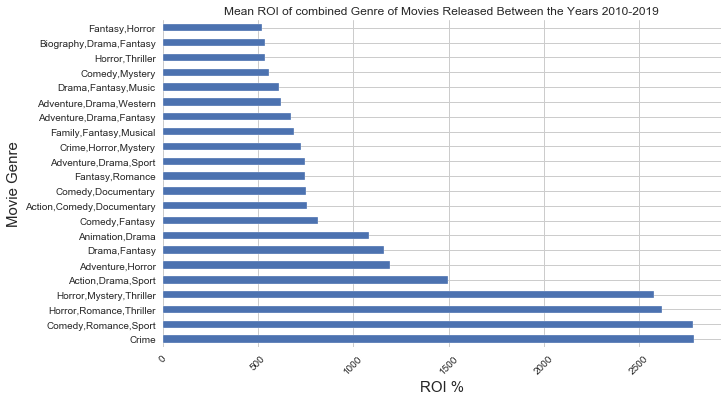
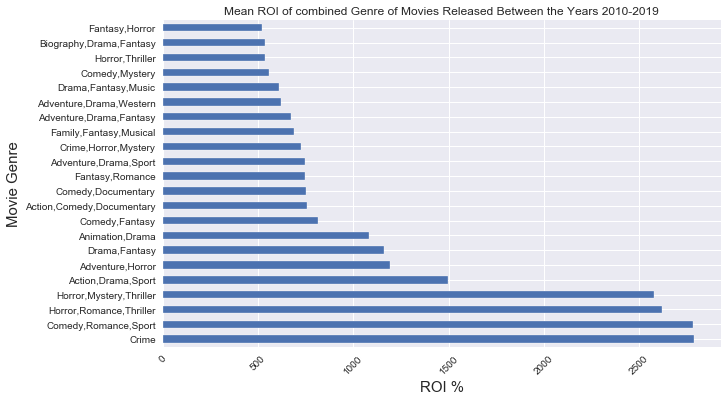
added image to README

diff --git a/README.md b/README.md
@@ -16,6 +16,8 @@ Our results indicate that Microsoft should produce predominantly high budget fil
 
 Microsoft would like to start it’s own movie studio. However, they do not know anything about the movie industry. Here, we explore relevant data concerning the movie industry. In particular, our focus was on how best to minimise risk while opening up the potential for very large returns on investment. 
 
+![img](./images/minimalistfilm.jpg)
+
 ### The Data
 
 In the folder `zippedData` are movie datasets from:
